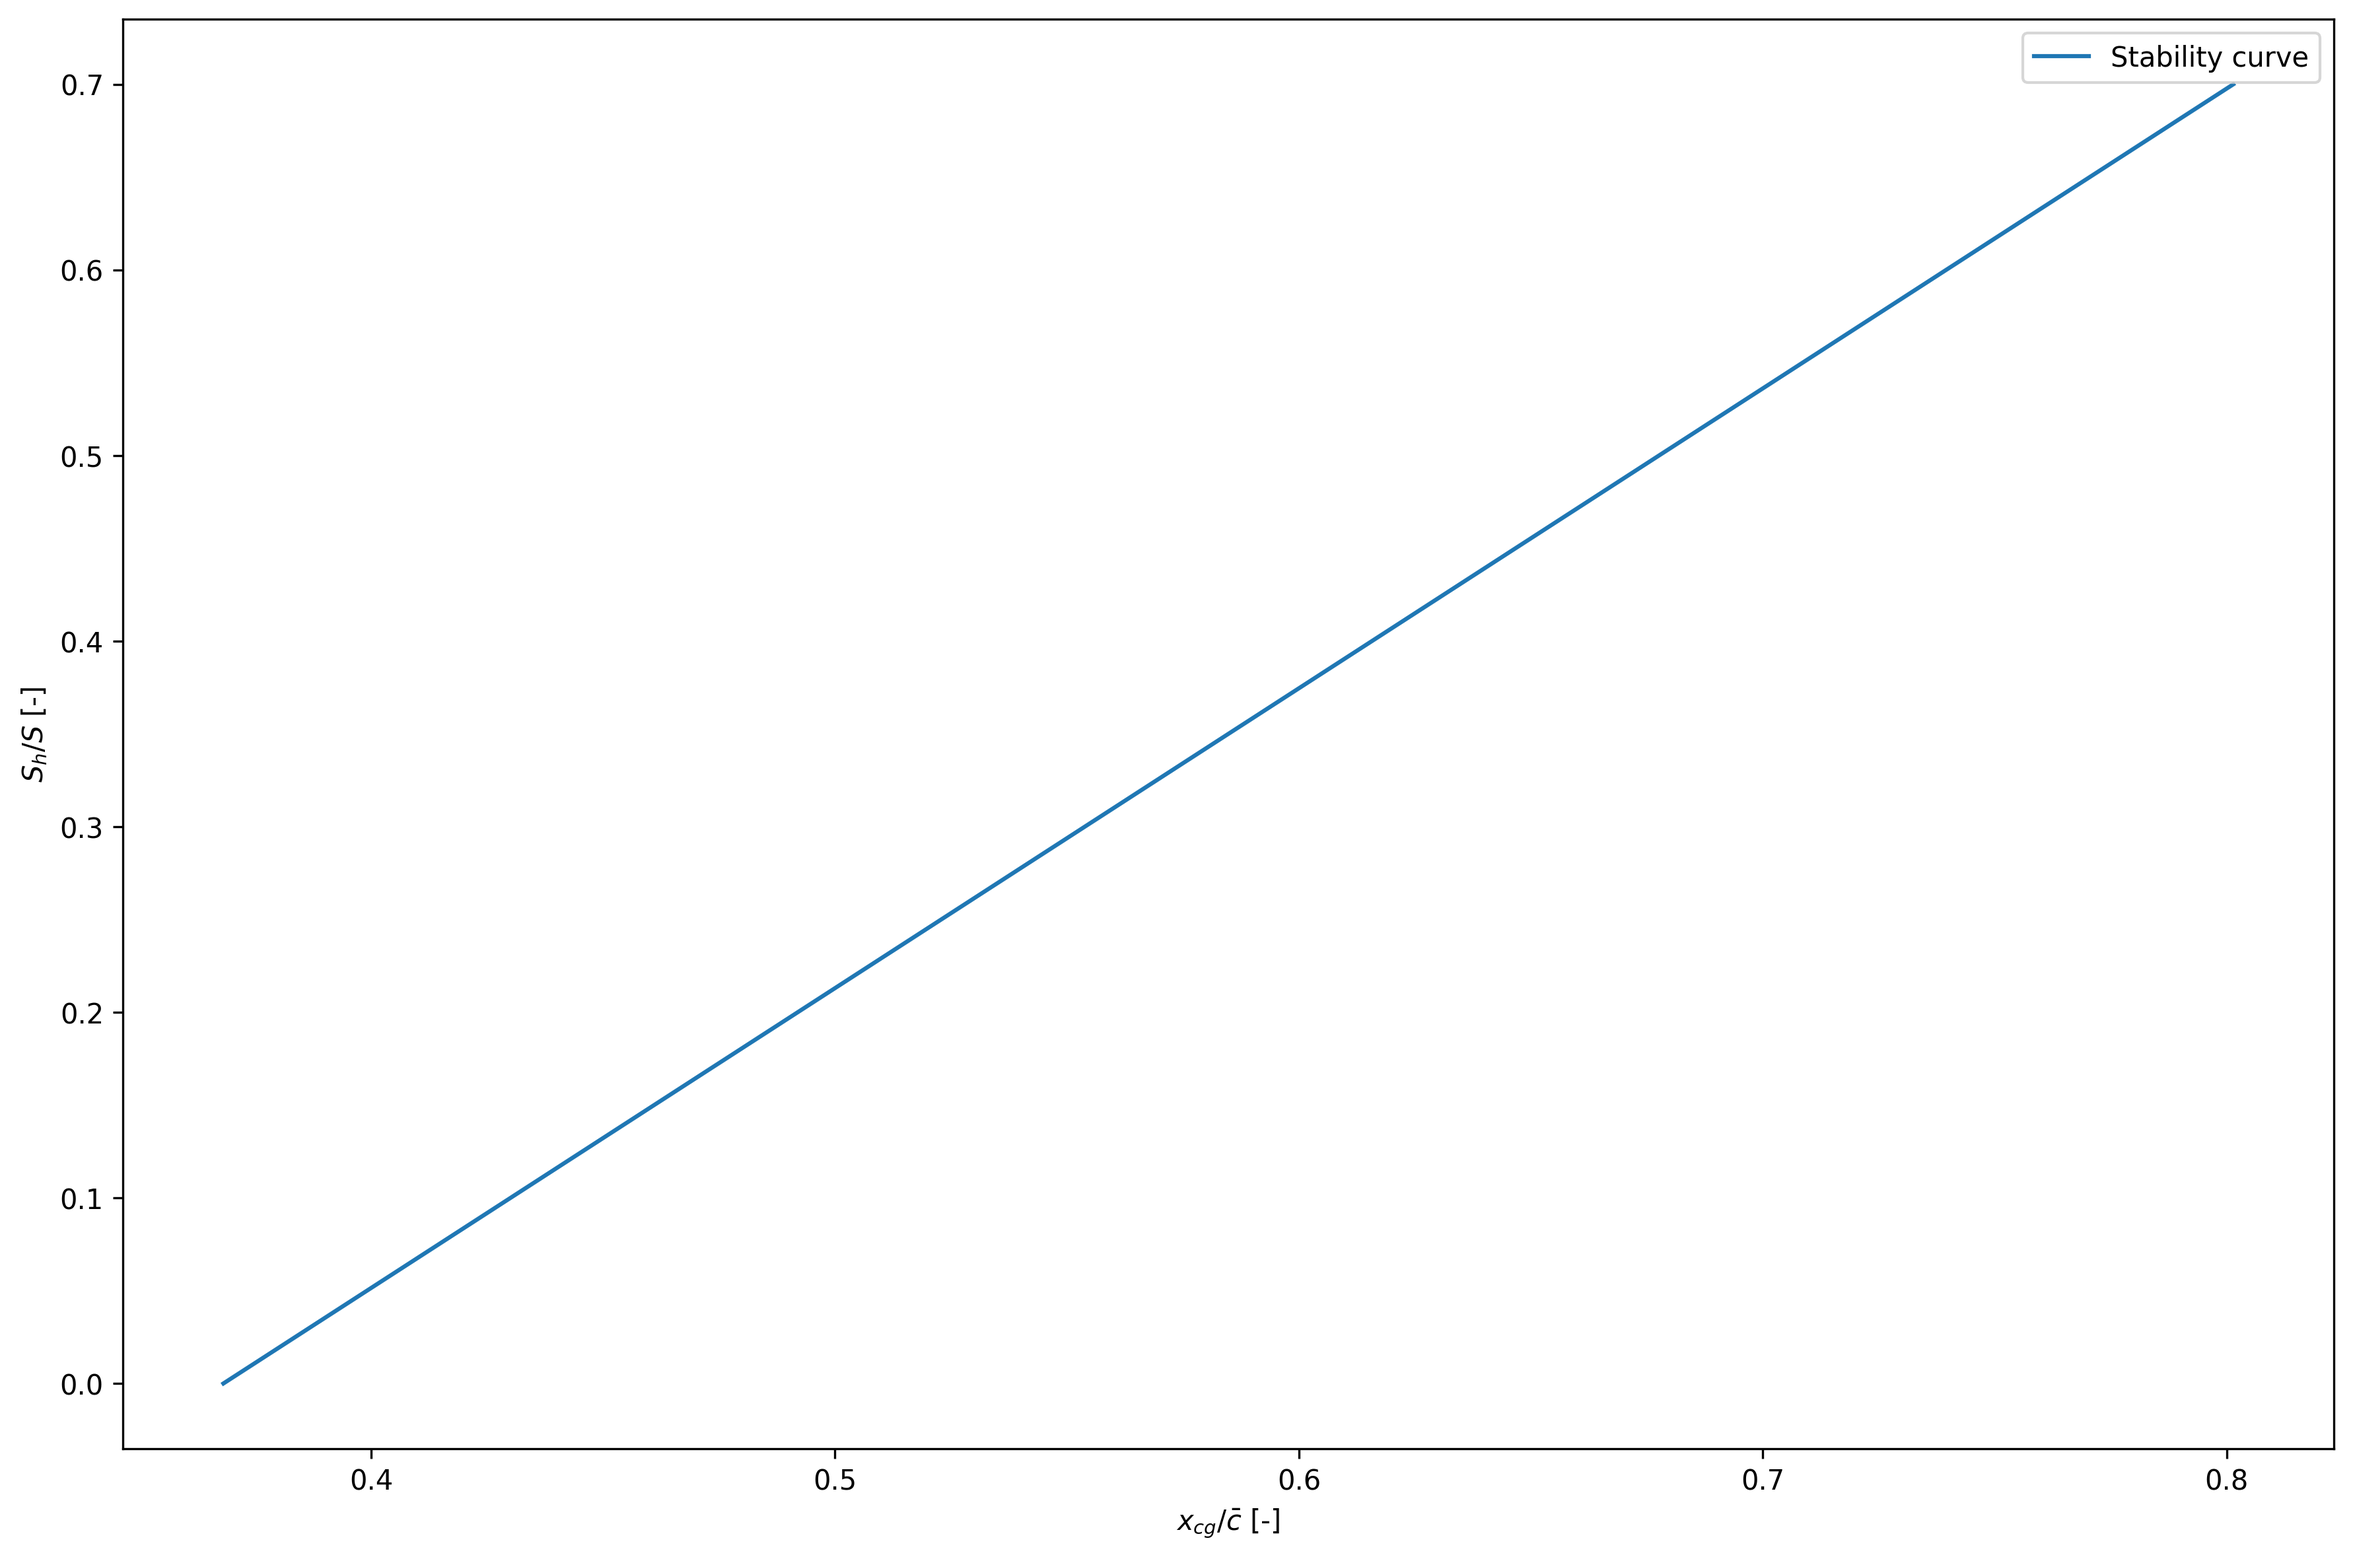
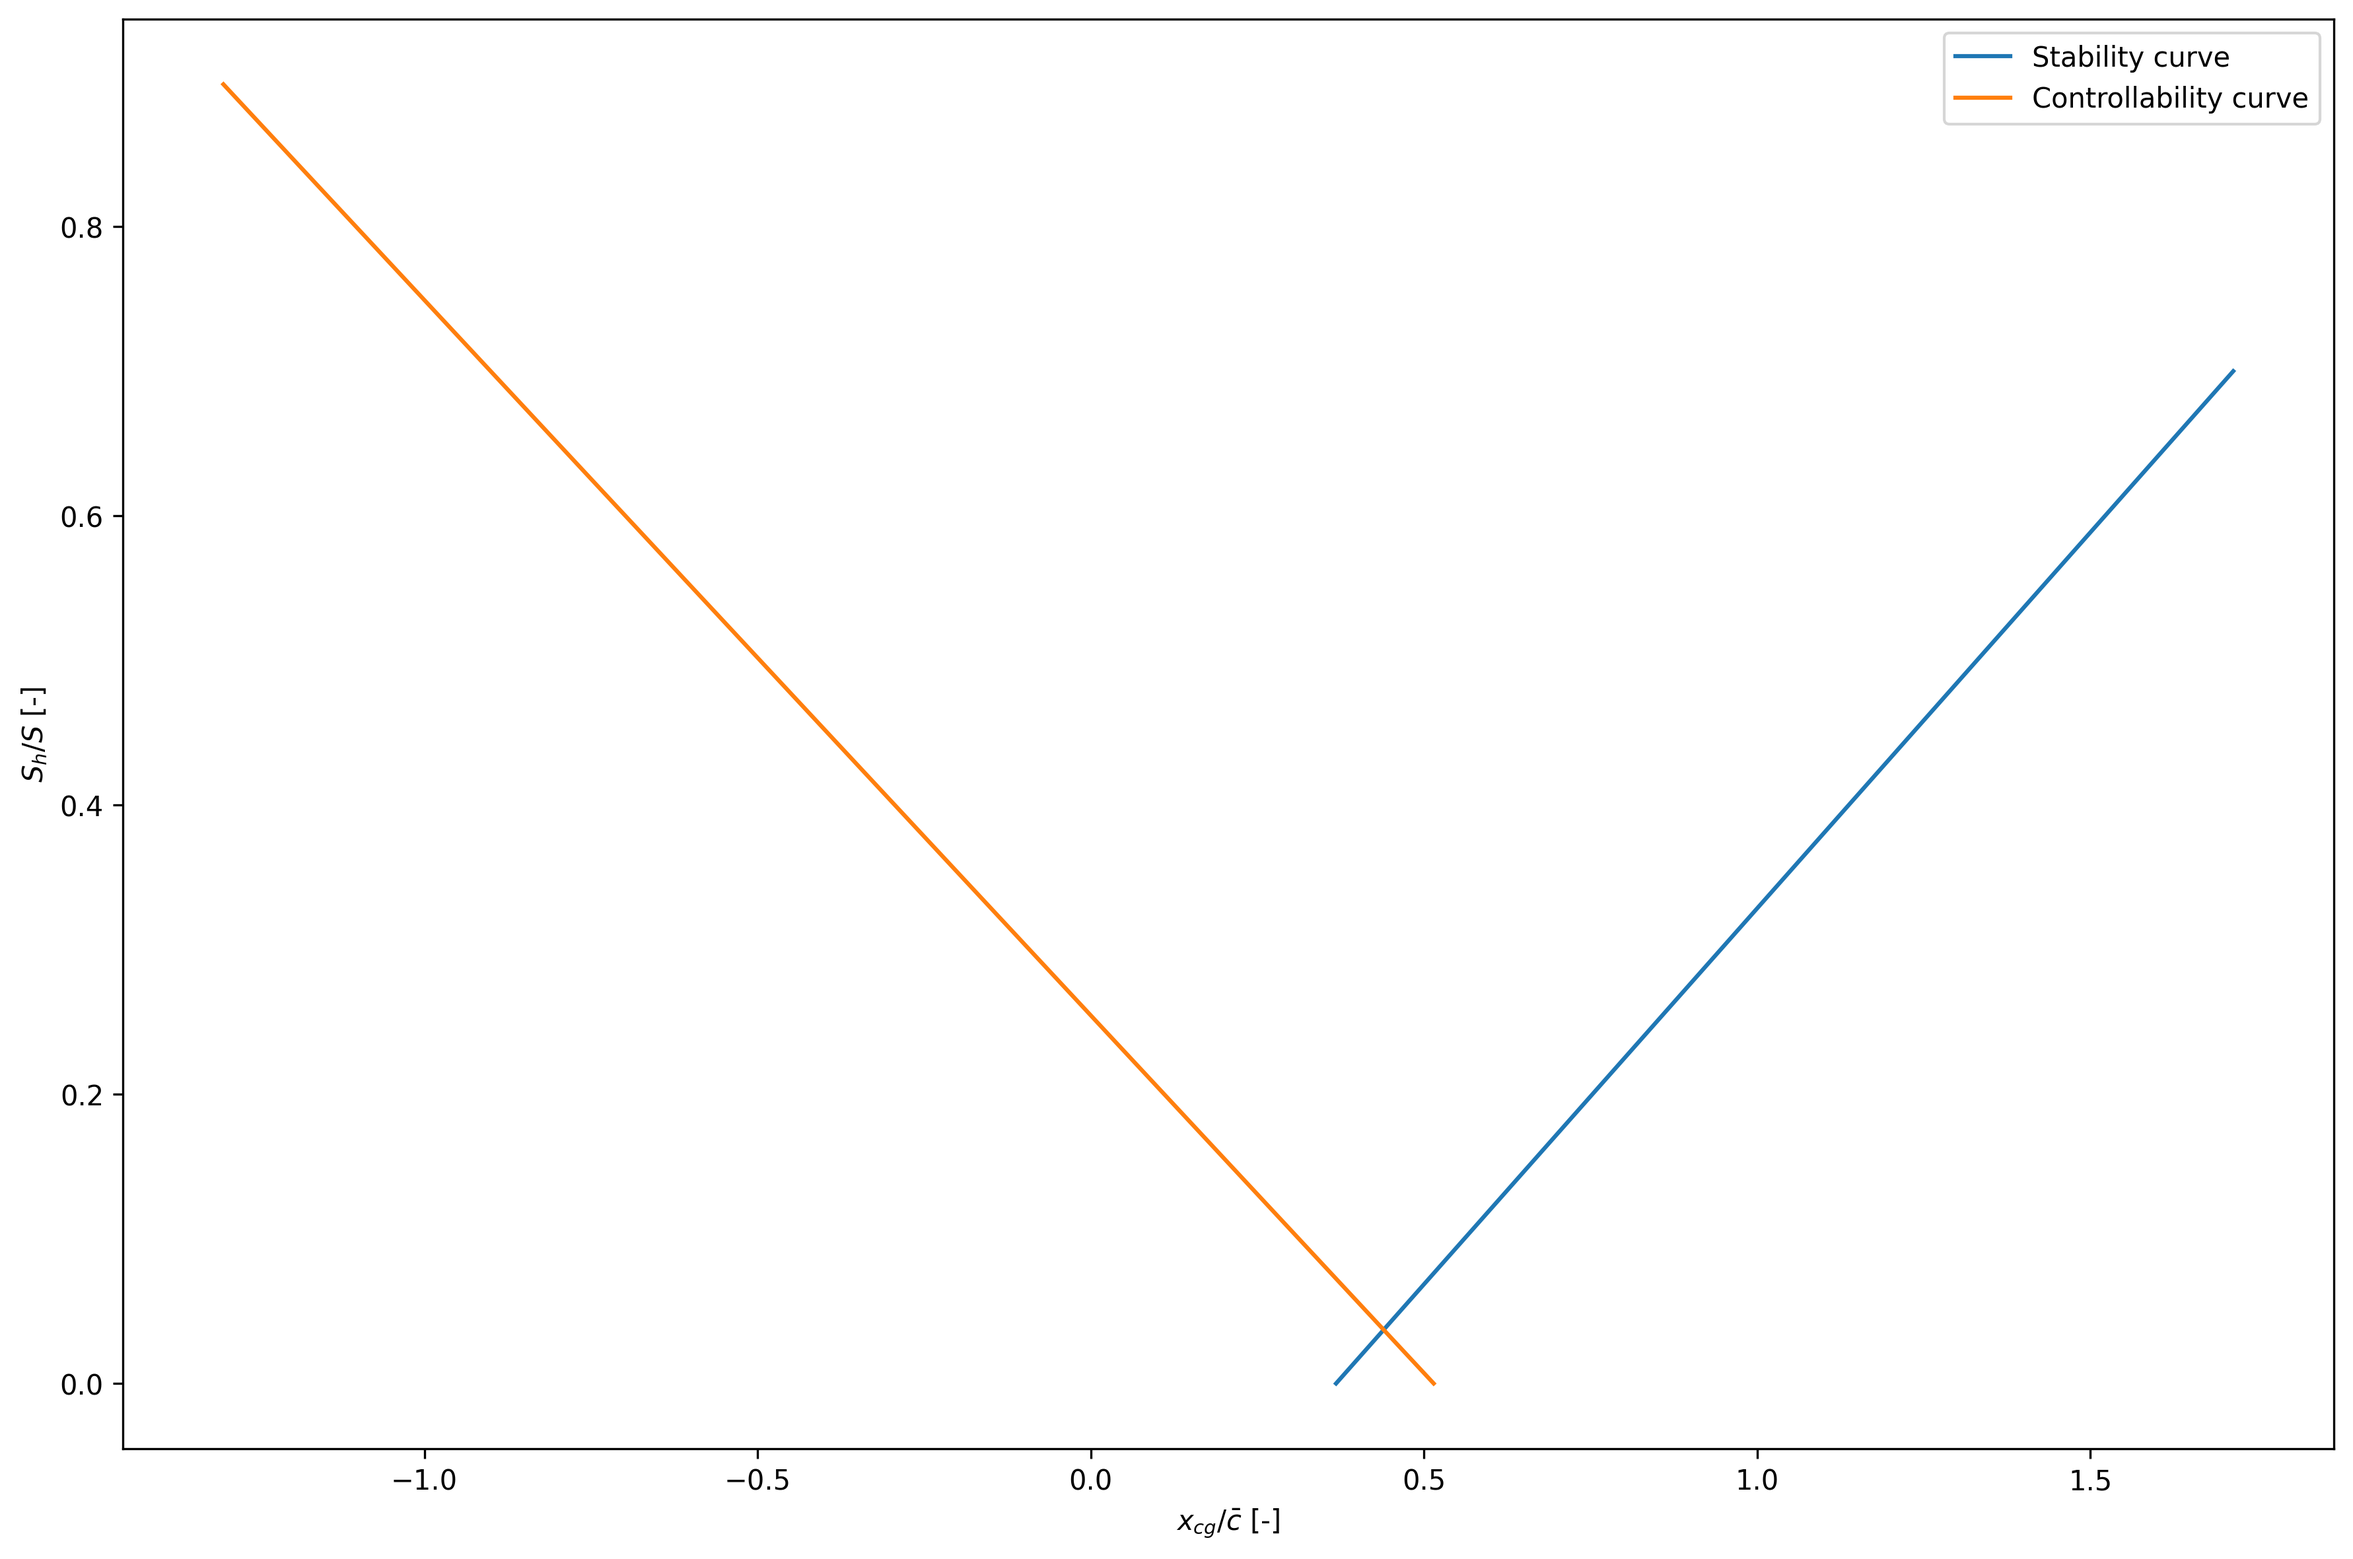
scissor plot code

diff --git a/scissor_plot.py b/scissor_plot.py
@@ -1,5 +1,6 @@
 from math import tan, radians, sqrt, pi, atan2, sin, cos
 import matplotlib.pyplot as plt
+from constants import G
 
 
 def datcom(A, M, eta, half_chord_sweep):
@@ -9,7 +10,7 @@ def datcom(A, M, eta, half_chord_sweep):
 
 
 def stability_line(
-    ax, max_Sh_S, M, S, S_net, b, mac, quarter_chord_sweep, half_chord_sweep, taper_ratio, A_h,
+    ax, max_Sh_S, M, S, S_net, b, c, quarter_chord_sweep, half_chord_sweep, taper_ratio, A_h,
     horizontal_stab_half_chord_sweep, use_torenbeek_method, eta, l_h, delta_z_wing_tail_acs, b_f, h_f, l_fn, b_n, l_n, 
     c_l_des, x_ac_w, k_n, Vh_V, stability_margin,
 ):
@@ -47,25 +48,70 @@ def stability_line(
         d_eps_d_alpha = 1.75 * C_L_alpha_w / (pi * A * (taper_ratio * r)**0.25 * (1 + abs(m)))
         one_minus_d_eps_d_alpha = (1 - d_eps_d_alpha) * 0.9  # correct for fuselage engines
     
+    one_minus_d_eps_d_alpha = 1 - 0.10
 
-    x_ac_f1 = (-1.8 / C_L_alpha_A_H) * (b_f * h_f * l_fn) / (S * mac)
+    x_ac_f1 = (-1.8 / C_L_alpha_A_H) * (b_f * h_f * l_fn) / (S * c)
     c_g = S / b
-    x_ac_f2 = (0.273 / (1 + taper_ratio)) * (b_f * c_g * (b - b_f)) / (mac ** 2 * (b + 2.15 * b_f)) * tan(quarter_chord_sweep)
-    x_ac_n = 2 * k_n * (b_n ** 2 * l_n) / (S * mac * C_L_alpha_A_H)
+    x_ac_f2 = (0.273 / (1 + taper_ratio)) * (b_f * c_g * (b - b_f)) / (c ** 2 * (b + 2.15 * b_f)) * tan(quarter_chord_sweep)
+    x_ac_n = 2 * k_n * (b_n ** 2 * l_n) / (S * c * C_L_alpha_A_H)
     x_ac = x_ac_w + x_ac_f1 + x_ac_f2 + x_ac_n
 
-    denom = (C_L_alpha_H / C_L_alpha_A_H * one_minus_d_eps_d_alpha * l_h / mac * Vh_V ** 2)
+    denom = (C_L_alpha_H / C_L_alpha_A_H * one_minus_d_eps_d_alpha * l_h / c * Vh_V ** 2)
     intercept = (x_ac - stability_margin) / denom
-    x_points = [x_ac - stability_margin, (max_Sh_S - intercept) * denom]
+    slope = 1 / denom
+    x_points = [x_ac - stability_margin, (max_Sh_S - intercept) / slope]
     y_points = [0, max_Sh_S]
     # breakpoint()
     ax.plot(x_points, y_points, label="Stability curve")
 
 
+def controllability_line(
+    ax, max_Sh_S, M, alpha_0_l, delta_alpha_0_l, C_m_0_airfoil, C_l_max, eta, S, S_prime, S_wf, c, b, b_f, h_f, l_f,
+    l_h, x_ac, quarter_chord_sweep, half_chord_sweep, flap_hinge_sweep_angle, V_app, rho, W, Vh_V, c_prime, C_L_H, mu_1,
+    mu_2, mu_3,
+):
+    A = b**2 / S
+    C_L_alpha_A_H = datcom(A, M, eta, half_chord_sweep)
+    alpha_0_L = alpha_0_l
+    delta_alpha_0_L = delta_alpha_0_l * (S_wf / S) * cos(flap_hinge_sweep_angle)
+    C_L_alpha_clean = C_L_alpha_A_H
+    C_L_alpha_flapped = S_prime / S * C_L_alpha_clean
+    C_L_alpha_equals_0 = radians(abs(alpha_0_L - delta_alpha_0_L)) * C_L_alpha_flapped
+    
+    C_m_ac_w = C_m_0_airfoil * (A * cos(quarter_chord_sweep)**2) / (A + 2*cos(quarter_chord_sweep))
+    delta_fus_C_m_ac = -1.8 * (1 - 2.5*b_f/l_f) * (pi * b_f * h_f * l_f) / (4 * S * c) * (C_L_alpha_equals_0 / C_L_alpha_A_H)
+    delta_nac_C_m_ac = 0
+
+    delta_f_c_l = 1.6 * c_prime / c
+    C_L = sqrt(2/rho * W/S * 1 / V_app**2)
+    c_l = C_L - delta_f_c_l * (1 - S_wf / S)
+    delta_f_c_m_1_4 = -mu_1 * delta_f_c_l * (c_prime / c) - c_l * (1/8) * (c_prime / c) * (c_prime / c - 1)
+    delta_f_C_m_ac = mu_2 * delta_f_c_m_1_4 + 0.7 * A / (1 + 2/A) * mu_3 * delta_f_c_l * tan(quarter_chord_sweep)
+    C_m_ac = C_m_ac_w + delta_f_C_m_ac + delta_fus_C_m_ac + delta_nac_C_m_ac
+
+    delta_C_l_max = delta_f_c_l
+    delta_C_L_max = 0.9 * delta_C_l_max * (S_wf / S) * cos(flap_hinge_sweep_angle)
+    C_L_max_clean = 0.9 * C_l_max * cos(quarter_chord_sweep)
+    C_L_max = C_L_max_clean + delta_C_L_max
+    V_s = V_app / 1.3
+    C_L_landing = (V_s / V_app)**2 * C_L_max
+    C_L_w = C_L_landing
+    C_L_A_H = C_L_w
+
+    denom = (C_L_H / C_L_A_H) * (l_h / c) * Vh_V ** 2
+    intercept = (C_m_ac / C_L_A_H - x_ac) / denom
+    slope = 1 / denom
+    x_points = [(max_Sh_S - intercept) / slope, -intercept / slope]
+    y_points = [intercept + max_Sh_S, 0]
+    ax.plot(x_points, y_points, label="Controllability curve")
+
+
 def scissor_plot(
     filename, show_legend, max_Sh_S, M_cruise, S, S_net, b, mac, quarter_chord_sweep_deg, half_chord_sweep_deg,
     taper_ratio, A_h, horizontal_stab_half_chord_sweep_deg, use_torenbeek_method, eta, l_h, delta_z_wing_tail_acs, b_f,
-    h_f, l_fn, b_n, l_n, c_l_des, x_ac_w, k_n, Vh_V, stability_margin,
+    h_f, l_fn, b_n, l_n, c_l_des, x_ac_w_cruise, k_n, Vh_V, stability_margin, V_app_kts, alpha_0_l, delta_alpha_0_l,
+    C_m_0_airfoil, C_l_max, S_prime, S_wf, l_f, x_ac_w_landing, flap_hinge_sweep_deg, rho_landing, m_landing_kg,
+    delta_c_cf, cf, C_L_H, mu_1, mu_2, mu_3,
 ):
     fig, ax = plt.subplots(figsize=(12, 8))
 
@@ -92,10 +138,43 @@ def scissor_plot(
         b_n,
         -l_n,
         c_l_des,
-        x_ac_w,
+        x_ac_w_cruise,
         k_n,
         Vh_V,
         stability_margin,
+    )
+
+    controllability_line(
+        ax,
+        max_Sh_S,
+        V_app_kts * 1852/3600 / sqrt(1.4 * 287 * 288.15),
+        alpha_0_l,
+        delta_alpha_0_l,
+        C_m_0_airfoil,
+        C_l_max,
+        eta,
+        S,
+        S_prime,
+        S_wf,
+        mac,
+        b,
+        b_f,
+        h_f,
+        l_f,
+        l_h,
+        x_ac_w_landing,
+        radians(quarter_chord_sweep_deg),
+        radians(half_chord_sweep_deg),
+        radians(flap_hinge_sweep_deg),
+        V_app_kts * 1852/3600,
+        rho_landing,
+        m_landing_kg * G,
+        Vh_V,
+        mac + delta_c_cf*cf,
+        C_L_H,
+        mu_1,
+        mu_2,
+        mu_3,
     )
 
     if show_legend:
@@ -133,9 +212,27 @@ if __name__ == "__main__":
         "b_n": 1.52530611,                                # max nacelle diameter [m]
         "l_n": 10.32898502,                               # distance from wing a.c. to rear of nacelle [m]; should be positive
         "c_l_des": 3 * 0.15,                              # airfoil design lift coefficient [-]
-        "x_ac_w": 0.445,                                  # from Torenbeek figure E-10 [-]
+        "x_ac_w_cruise": 0.445,                           # from Torenbeek figure E-10 [-]
         "k_n": -2.5,                                      # nacelle a.c. shift coefficient [-]; -2.5 for rear fuselage podded engines
         "Vh_V": 1,                                        # tail speed ratio [-]; 1 for T-tail
         "stability_margin": 0.05,                         # stability margin, in fraction m.a.c. [-]
+        "V_app_kts": 130,                                 # approach speed in [kts]
+        "alpha_0_l": -0.78,                               # airfoil angle of attack at which C_l = 0, [deg]
+        "delta_alpha_0_l": -15,                           # change in airfoil C_l = 0 in [deg], approx. -15 deg from ADSEE II
+        "C_m_0_airfoil": -0.013,                          # airfoil C_m when C_l = 0, [-]
+        "C_l_max": 1.618,                                 # airfoil max C_l, [-]
+        "S_prime": 98.2905,                               # entire surface of new wing when flaps are extended, should be >S, [m]
+        "S_wf": 26.8456 * 2,                              # portion of unflapped wing in front of flaps, should be <S, [m]
+        "l_f": 32.501,                                    # fuselage length [m]
+        "x_ac_w_landing": 0.355,                          # from Torenbeek figure E-10 [-]
+        "flap_hinge_sweep_deg": 6.59,                     # sweep of flap hinge line, [deg]
+        "rho_landing": 1.225,                             # air density at landing, [kg/m^3]
+        "m_landing_kg": 39915,                            # landing mass in [kg]
+        "delta_c_cf": 0.79,                               # read from Torenbeek fig. G-7 [-]
+        "cf": 1.250,                                      # flap chord as shown in Torenbeek fig. G-7, [m]
+        "C_L_H": -0.85,                                   # C_L of the tail at landing, -0.85 for adjustable tails [-]
+        "mu_1": 0.12,                                     # from Torenbeek fig. G-15
+        "mu_2": 0.78,                                     # from Torenbeek fig. G-16
+        "mu_3": 0.0575,                                   # from Torenbeek fig. G-17
     }
     scissor_plot(**reference_aircraft_config)
